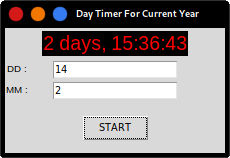
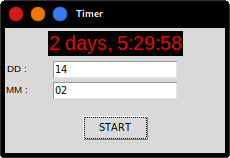
Readme1

Changed region(s): [[0.1826, 0.1772, 0.8217, 0.3544], [0.3043, 0.0506, 0.8826, 0.1266], [0.213, 0.5316, 0.3043, 0.6076]]

diff --git a/timer.py b/timer.py
@@ -15,21 +15,20 @@ def set_timer():
 
 def countdown():
 	t = set_timer()
-	if t>0:
+	if t > 0:
 		td = timedelta(seconds=t)
 		l1.config(text = td, background= "black")
-		t=t-1
+		t -= 1
 		l1.after(1000, countdown)
 	else:
 		print("end")
 		l1.config(text = "Time is up!")
 
-
 """User Interface"""
 
 #CANVAS
 root = Tk()
-root.title("Day Timer For Current Year")
+root.title("Timer")
 root.geometry("220x125")
 
 # LABELS
@@ -42,7 +41,7 @@ l2.grid(row = 2, column = 1)
 l3 = Label(root, font = "arial 10", text= "MM :")
 l3.grid(row = 4, column = 1)
 
-l4 = Label(root,font="arial 20", text='just for paddin',foreground="gainsboro")
+l4 = Label(root,font="arial 20", text='just for paddin',foreground="gray85")
 l4.grid(row = 7, column = 2, padx = 25, pady=3)
 
 #INPIT BOXES

diff --git a/README.md b/README.md
@@ -1,4 +1,4 @@
 # Timer
-learning "tkinter"/pyhton3.x
+a program in python3.x using [tkinter](https://docs.python.org/3/library/tkinter.html) pyhton3.x
 
-![executed](timer.png)
+![executed](timer.png "Executed Program!")
